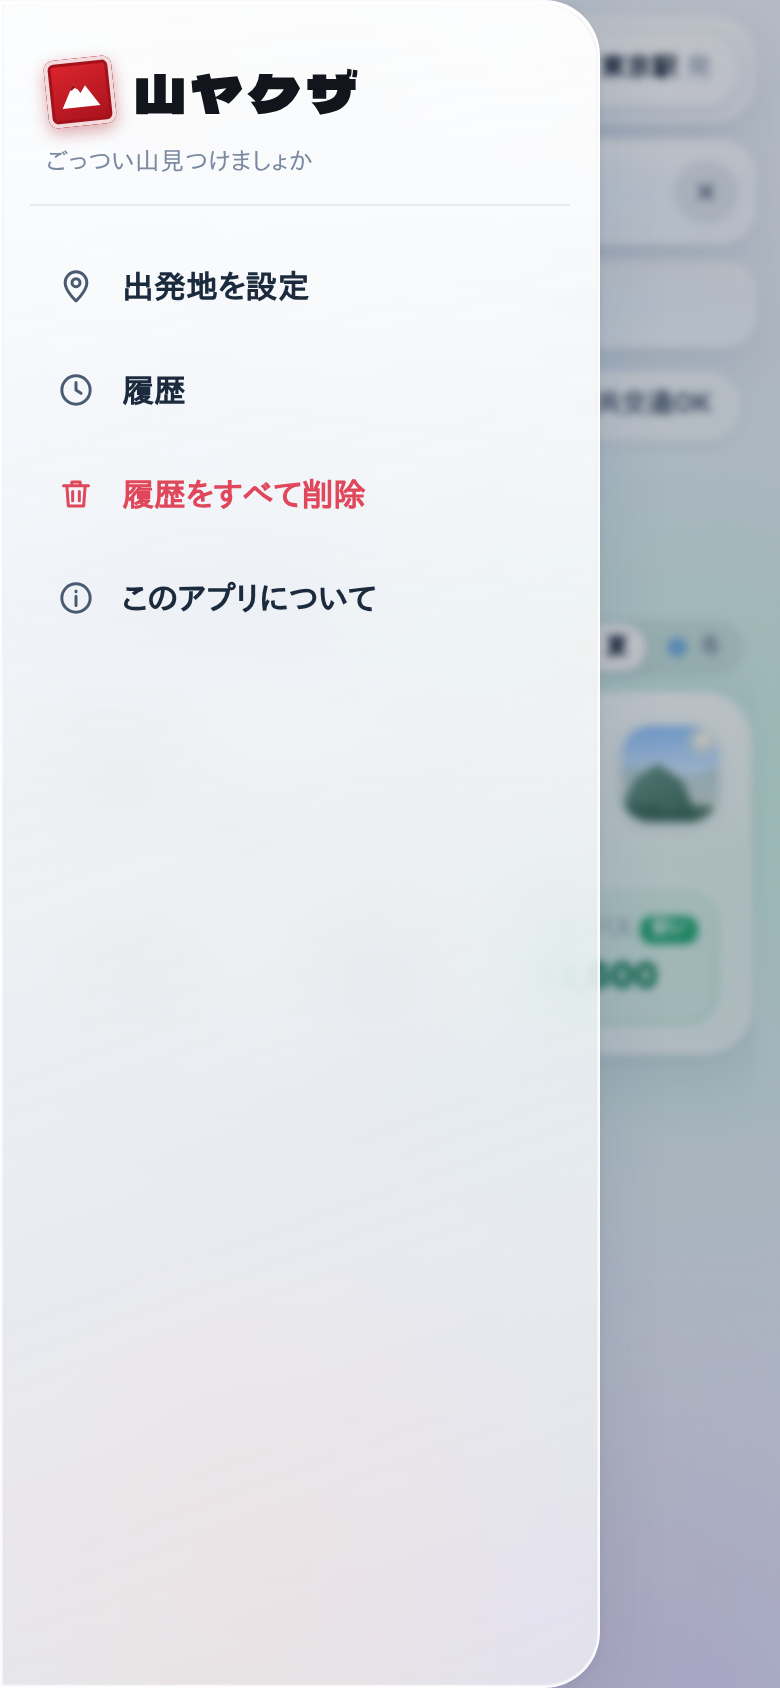
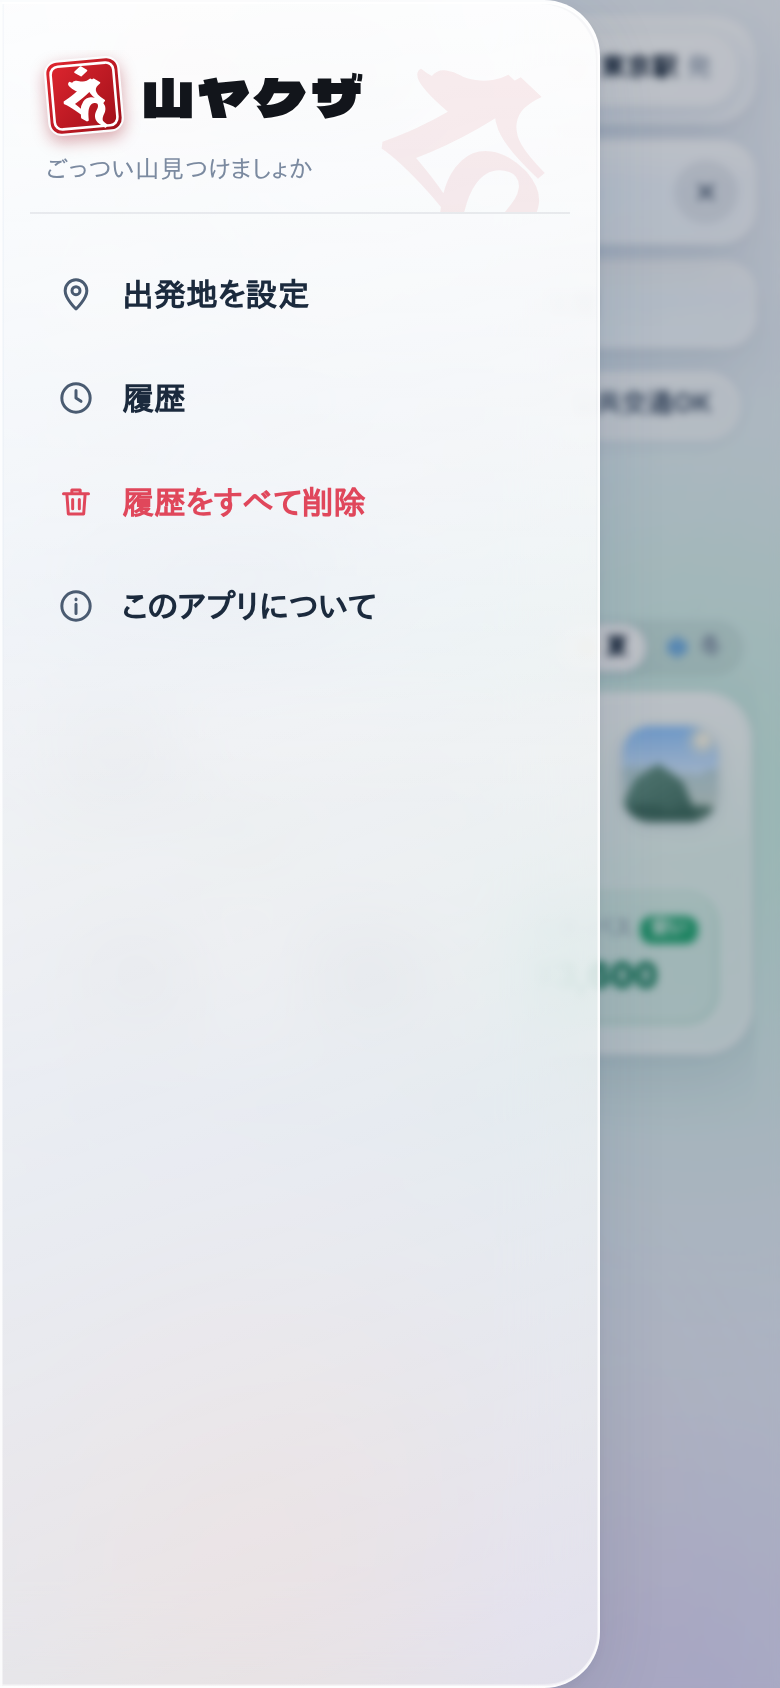
ロゴの角印を梵字「カーン」（不動明王の種字）に
- Noto Sans Siddham（OFL）の字形を HarfBuzz で組んで SVG 図形化し、角印に白抜きで配置（フォント同梱なし）
- ヘッダー・メニュー・ファビコンの角印を統一、メニュー上部に梵字の透かし
- ライセンス文を public/fonts/ に同梱、README に記載

Claude-Session: https://claude.ai/code/session_017srsqCqyUnvrGkJVuN8LTR

diff --git a/public/index.html b/public/index.html
@@ -12,6 +12,7 @@
 <link rel="modulepreload" href="js/app.js">
 </head>
 <body>
+<svg width="0" height="0" style="position:absolute" aria-hidden="true"><defs><symbol id="seal-kaan" viewBox="0 0 64 64"><rect x="2" y="2" width="60" height="60" rx="9" fill="url(#seal-red)"/><rect x="5.5" y="5.5" width="53" height="53" rx="6.5" fill="none" stroke="#fff" stroke-width="2.2"/><g transform="translate(32 33.5) scale(0.052) translate(-342 396)"><path d="M117 -638Q117 -652 129 -659Q150 -646 174 -637Q192 -666 227 -666Q257 -666 283.0 -655.5Q309 -645 345 -645Q378 -645 410.5 -654.5Q443 -664 468 -683L558 -620Q526 -584 480.0 -542.5Q434 -501 379.5 -459.0Q325 -417 268.0 -379.5Q211 -342 158 -313Q191 -284 223.5 -252.5Q256 -221 282 -192Q292 -278 334.5 -328.5Q377 -379 444 -379Q479 -379 515.5 -364.5Q552 -350 584.0 -325.0Q616 -300 635.5 -268.0Q655 -236 655 -202Q655 -175 646.0 -152.5Q637 -130 625.0 -109.5Q613 -89 604.0 -66.5Q595 -44 595 -17Q595 6 611.0 25.5Q627 45 665 77L642 103Q623 87 601.5 69.5Q580 52 565 39Q533 10 519.0 -15.5Q505 -41 505 -70Q505 -100 514.5 -123.5Q524 -147 537.0 -167.5Q550 -188 559.5 -208.5Q569 -229 569 -253Q569 -278 552.0 -295.0Q535 -312 504 -312Q438 -312 404.0 -250.0Q370 -188 370 -75V-31L356 -25L280 -79V-138Q236 -179 189.0 -216.5Q142 -254 98.5 -284.0Q55 -314 20 -331V-357Q84 -391 141.5 -427.5Q199 -464 255 -508Q197 -546 167.5 -570.5Q138 -595 127.5 -610.5Q117 -626 117 -638ZM323 -759 232 -821 326 -895 416 -832ZM638 -299Q571 -347 526.0 -387.5Q481 -428 458.0 -467.0Q435 -506 435 -551Q435 -592 455.0 -621.5Q475 -651 517 -680L608 -616Q569 -591 547.5 -563.5Q526 -536 526 -500Q526 -461 556.0 -421.5Q586 -382 661 -325Z" fill="#fff" stroke="#fff" stroke-width="30" stroke-linejoin="round"/></g></symbol><linearGradient id="seal-red" x1="0" y1="0" x2="1" y2="1"><stop offset="0" stop-color="#e0262f"/><stop offset="1" stop-color="#9e0f19"/></linearGradient><symbol id="kaan-mark" viewBox="0 -900 700 1010"><path d="M117 -638Q117 -652 129 -659Q150 -646 174 -637Q192 -666 227 -666Q257 -666 283.0 -655.5Q309 -645 345 -645Q378 -645 410.5 -654.5Q443 -664 468 -683L558 -620Q526 -584 480.0 -542.5Q434 -501 379.5 -459.0Q325 -417 268.0 -379.5Q211 -342 158 -313Q191 -284 223.5 -252.5Q256 -221 282 -192Q292 -278 334.5 -328.5Q377 -379 444 -379Q479 -379 515.5 -364.5Q552 -350 584.0 -325.0Q616 -300 635.5 -268.0Q655 -236 655 -202Q655 -175 646.0 -152.5Q637 -130 625.0 -109.5Q613 -89 604.0 -66.5Q595 -44 595 -17Q595 6 611.0 25.5Q627 45 665 77L642 103Q623 87 601.5 69.5Q580 52 565 39Q533 10 519.0 -15.5Q505 -41 505 -70Q505 -100 514.5 -123.5Q524 -147 537.0 -167.5Q550 -188 559.5 -208.5Q569 -229 569 -253Q569 -278 552.0 -295.0Q535 -312 504 -312Q438 -312 404.0 -250.0Q370 -188 370 -75V-31L356 -25L280 -79V-138Q236 -179 189.0 -216.5Q142 -254 98.5 -284.0Q55 -314 20 -331V-357Q84 -391 141.5 -427.5Q199 -464 255 -508Q197 -546 167.5 -570.5Q138 -595 127.5 -610.5Q117 -626 117 -638ZM323 -759 232 -821 326 -895 416 -832ZM638 -299Q571 -347 526.0 -387.5Q481 -428 458.0 -467.0Q435 -506 435 -551Q435 -592 455.0 -621.5Q475 -651 517 -680L608 -616Q569 -591 547.5 -563.5Q526 -536 526 -500Q526 -461 556.0 -421.5Q586 -382 661 -325Z"/></symbol></defs></svg>
 <div class="bg" aria-hidden="true"><span class="blob b1"></span><span class="blob b2"></span><span class="blob b3"></span><span class="blob b4"></span></div>
 
 <div class="app" id="app">
@@ -19,7 +20,7 @@
     <button id="menuBtn" class="icon-btn hamburger rp" type="button" aria-label="メニューを開く" aria-expanded="false" aria-controls="drawer">
       <span></span><span></span><span></span>
     </button>
-    <h1 class="brand"><span class="brand-seal" aria-hidden="true"><svg viewBox="0 0 24 24"><path d="M2.5 19.5 9 7.5l3.2 5 2.6-3.6 6.7 10.6z" fill="#fff"/><path d="m9 7.5 1.9 3-1.4-.8-1.6 1.3-.9-.4z" fill="#a3111b"/></svg></span><span class="brand-text">山ヤクザ</span></h1>
+    <h1 class="brand"><span class="brand-seal" aria-hidden="true" title="梵字カーン（不動明王）"><svg viewBox="0 0 64 64"><use href="#seal-kaan"/></svg></span><span class="brand-text">山ヤクザ</span></h1>
     <button id="originChip" class="origin-chip glass-chip rp" type="button" aria-haspopup="dialog" aria-controls="originSheet">
       <svg viewBox="0 0 24 24" aria-hidden="true"><path d="M12 2a7 7 0 0 0-7 7c0 5 7 13 7 13s7-8 7-13a7 7 0 0 0-7-7Zm0 9.5A2.5 2.5 0 1 1 12 6a2.5 2.5 0 0 1 0 5.5Z" fill="currentColor"/></svg>
       <span class="origin-name" id="originName">東京駅</span><span class="origin-suffix">発</span>
@@ -75,7 +76,7 @@
 <!-- ドロワー -->
 <div class="scrim" id="drawerScrim" hidden></div>
 <aside class="drawer glass" id="drawer" aria-label="メニュー" aria-hidden="true" inert>
-  <div class="drawer-head"><span class="brand"><span class="brand-seal" aria-hidden="true"><svg viewBox="0 0 24 24"><path d="M2.5 19.5 9 7.5l3.2 5 2.6-3.6 6.7 10.6z" fill="#fff"/><path d="m9 7.5 1.9 3-1.4-.8-1.6 1.3-.9-.4z" fill="#a3111b"/></svg></span><span class="brand-text">山ヤクザ</span></span><small>ごっつい山見つけましょか</small></div>
+  <div class="drawer-head"><svg class="drawer-kaan" aria-hidden="true"><use href="#kaan-mark"/></svg><span class="brand"><span class="brand-seal" aria-hidden="true" title="梵字カーン（不動明王）"><svg viewBox="0 0 64 64"><use href="#seal-kaan"/></svg></span><span class="brand-text">山ヤクザ</span></span><small>ごっつい山見つけましょか</small></div>
   <nav class="drawer-nav">
     <button type="button" class="dnav rp" data-act="origin"><span class="dico" data-icon="pin"></span>出発地を設定</button>
     <button type="button" class="dnav rp" data-act="history"><span class="dico" data-icon="clock"></span>履歴</button>

diff --git a/public/css/app.css b/public/css/app.css
@@ -529,3 +529,12 @@ small { font-size: 0.78em; }
   height: 30px; padding: 0 12px; border-radius: 999px; font-size: 12px; font-weight: 800; color: var(--ink); white-space: nowrap; }
 .hero-maps .ico { width: 15px; height: 15px; color: var(--danger); }
 .hero-link:active .hero-maps { transform: translateX(-50%) scale(0.95); }
+
+/* ロゴ：梵字「カーン」（不動明王の種字）の朱の角印 ＋ 極太文字 */
+.brand-seal { background: none; box-shadow: 0 3px 8px rgba(158, 15, 25, 0.35); border-radius: 7px; transform: rotate(-5deg); }
+.brand-seal svg, .drawer-head .brand-seal svg { width: 100%; height: 100%; display: block; }
+.topbar .brand-seal { width: 32px; height: 32px; }
+.drawer-head .brand-seal { width: 38px; height: 38px; }
+.brand-text { letter-spacing: 0.08em; }
+.drawer-head { position: relative; overflow: hidden; }
+.drawer-kaan { position: absolute; right: -14px; top: -18px; width: 130px; height: 130px; fill: #c4161f; opacity: 0.07; transform: rotate(8deg); pointer-events: none; }

diff --git a/goal/REPORT.md b/goal/REPORT.md
@@ -1,32 +1,32 @@
 # 山ヤクザ E2E テストレポート
 
-- 実行日時：2026/11/18 21:19:06（JST）
-- 結果：**16/16 合格** ✅（135.5秒）
+- 実行日時：2026/11/18 21:30:00（JST）
+- 結果：**16/16 合格** ✅（137.5秒）
 - ブラウザ：Google Chrome 153.0.8010.12（/usr/bin/google-chrome）・ヘッドレス
 - 端末エミュレーション：390×844 / deviceScaleFactor 2 / isMobile / hasTouch / ja-JP / Asia/Tokyo
 - サーバー：`scripts/dev-server.mjs`（src/worker.js を Node で実行）`MOCK_UPSTREAM=1`（フィクスチャ：goal/fixtures/upstream.json）。テスト14は `MOCK_WEATHER_FAIL=1` のサーバーを使用
-- 地図タイル：ルーティングで画像スタブを返却（要求回数 合計 98 回）。それ以外の外部リクエストは遮断し、発生したら失敗
+- 地図タイル：ルーティングで画像スタブを返却（要求回数 合計 102 回）。それ以外の外部リクエストは遮断し、発生したら失敗
 - 横フリック：CDP `Input.dispatchTouchEvent` による実タッチ
 - 失敗条件：アサーション違反、`pageerror` または `console.error` が1件でも出た場合（テスト14のみ、意図的に失敗させた通信の "Failed to load resource" を除外）
 
 | # | テスト | 結果 | 時間 | 詳細 |
 |---|---|---|---|---|
-| 1 | 起動直後に検索欄へフォーカスし「たかお」で高尾山が先頭 | ✅ PASS | 2.0s |  |
-| 2 | 起動スケルトンが表示されてから消える | ✅ PASS | 1.1s | スケルトン表示〜消失: 約389ms（入力時スケルトン表示中=true） |
-| 3 | 検索：タカオ／takao／八ヶ岳／ふじ／北海道・該当なし・クリア | ✅ PASS | 3.5s | 全219座 |
-| 4 | 絞り込み：初心者向け（難易度2以下）・百名山（100座）・出発地から近い順 | ✅ PASS | 7.4s | 全219座 → 初心者向け100座・百名山100座・近い順の先頭「高尾山」 |
-| 5 | 詳細：スケルトン→難易度・標準タイム・適期12ヶ月・登山指数ABCAB・てんくらリンク | ✅ PASS | 5.9s | 難易度初級・適期6/12・指数ABCAB |
-| 6 | 地図：S/Gマーカー・ルート線・タイル要求・2点が収まる・ドラッグ・ズーム | ✅ PASS | 8.2s | ズーム9・タイル要求18回（ドラッグ後+12）・道路 約61km（目安） |
-| 7 | 交通費：夏→冬で車が上がる・スタッドレス注記・冬季注意・フリック切替 | ✅ PASS | 11.2s | 車 ¥17,230 → ¥17,900（冬） |
-| 8 | 富士山：冬は車・公共交通とも利用不可、夏は通行料の注記 | ✅ PASS | 8.3s |  |
-| 9 | 出発地：まつもと→松本駅でヘッダー・地図・交通費が変化／住所でも設定・リロード後も保持 | ✅ PASS | 13.8s | 槍ヶ岳 車 東京¥21,920→松本¥5,580 / 公共交通 ¥18,440→¥5,320 |
-| 10 | 履歴：開いた順・右フリックでお気に入り・左フリックで削除→元に戻す・タップで詳細 | ✅ PASS | 18.2s |  |
-| 11 | ページャ横フリックでタブ切替（検索⇔履歴）・インジケーター追従 | ✅ PASS | 5.4s | タブ2つ・左右フリックで切替 |
-| 12 | ハンバーガー：開閉・aria-expanded・履歴全削除→元に戻す・説明シート・Esc/背景タップで閉じる | ✅ PASS | 15.9s |  |
-| 13 | ブラウザの戻るで詳細が閉じる・#m-yari の直リンクで詳細が開く | ✅ PASS | 10.3s |  |
-| 14 | 気象APIが落ちてもエラー表示と公式リンクが出る | ✅ PASS | 4.6s |  |
+| 1 | 起動直後に検索欄へフォーカスし「たかお」で高尾山が先頭 | ✅ PASS | 2.2s |  |
+| 2 | 起動スケルトンが表示されてから消える | ✅ PASS | 1.1s | スケルトン表示〜消失: 約414ms（入力時スケルトン表示中=true） |
+| 3 | 検索：タカオ／takao／八ヶ岳／ふじ／北海道・該当なし・クリア | ✅ PASS | 3.7s | 全219座 |
+| 4 | 絞り込み：初心者向け（難易度2以下）・百名山（100座）・出発地から近い順 | ✅ PASS | 9.4s | 全219座 → 初心者向け100座・百名山100座・近い順の先頭「高尾山」 |
+| 5 | 詳細：スケルトン→難易度・標準タイム・適期12ヶ月・登山指数ABCAB・てんくらリンク | ✅ PASS | 6.8s | 難易度初級・適期6/12・指数ABCAB |
+| 6 | 地図：S/Gマーカー・ルート線・タイル要求・2点が収まる・ドラッグ・ズーム | ✅ PASS | 8.4s | ズーム9・タイル要求18回（ドラッグ後+12）・道路 約61km（目安） |
+| 7 | 交通費：夏→冬で車が上がる・スタッドレス注記・冬季注意・フリック切替 | ✅ PASS | 11.0s | 車 ¥17,230 → ¥17,900（冬） |
+| 8 | 富士山：冬は車・公共交通とも利用不可、夏は通行料の注記 | ✅ PASS | 8.1s |  |
+| 9 | 出発地：まつもと→松本駅でヘッダー・地図・交通費が変化／住所でも設定・リロード後も保持 | ✅ PASS | 13.4s | 槍ヶ岳 車 東京¥21,920→松本¥5,580 / 公共交通 ¥18,440→¥5,320 |
+| 10 | 履歴：開いた順・右フリックでお気に入り・左フリックで削除→元に戻す・タップで詳細 | ✅ PASS | 19.6s |  |
+| 11 | ページャ横フリックでタブ切替（検索⇔履歴）・インジケーター追従 | ✅ PASS | 4.6s | タブ2つ・左右フリックで切替 |
+| 12 | ハンバーガー：開閉・aria-expanded・履歴全削除→元に戻す・説明シート・Esc/背景タップで閉じる | ✅ PASS | 15.5s |  |
+| 13 | ブラウザの戻るで詳細が閉じる・#m-yari の直リンクで詳細が開く | ✅ PASS | 10.0s |  |
+| 14 | 気象APIが落ちてもエラー表示と公式リンクが出る | ✅ PASS | 4.4s |  |
 | 15 | Worker API の入出力（health / 400 / weather算出 / geocode / 404 / 405） | ✅ PASS | 0.0s | health/400×7/weather ABCAB+キャッシュHIT/geocode/404/405×3/上流失敗502 |
-| 16 | 詳細・全タブ・bodyで横スクロールがはみ出さない | ✅ PASS | 19.4s |  |
+| 16 | 詳細・全タブ・bodyで横スクロールがはみ出さない | ✅ PASS | 19.2s |  |
 
 ## スクリーンショット（goal/screenshots/）
 

diff --git a/README.md b/README.md
@@ -90,3 +90,4 @@ npx wrangler deploy  # Cloudflare Workers へデプロイ
 - 地図は[地理院タイル](https://maps.gsi.go.jp/development/ichiran.html)、住所検索は国土地理院の住所検索APIを利用しています
 - 登山は自己責任です。天候・装備・体力に合わせて無理のない計画を立ててください
 - ロゴの文字には [Dela Gothic One](https://github.com/syakuzen/DelaGothic)（SIL Open Font License 1.1）を、ロゴに使う4文字だけに切り出して同梱しています（`public/fonts/`、ライセンス文 `public/fonts/DelaGothicOne-OFL.txt`）
+- ロゴの角印の梵字「カーン」（不動明王の種字）は [Noto Sans Siddham](https://github.com/notofonts/siddham)（SIL Open Font License 1.1）の字形を SVG 図形に変換したものです（ライセンス文 `public/fonts/NotoSansSiddham-OFL.txt`）
